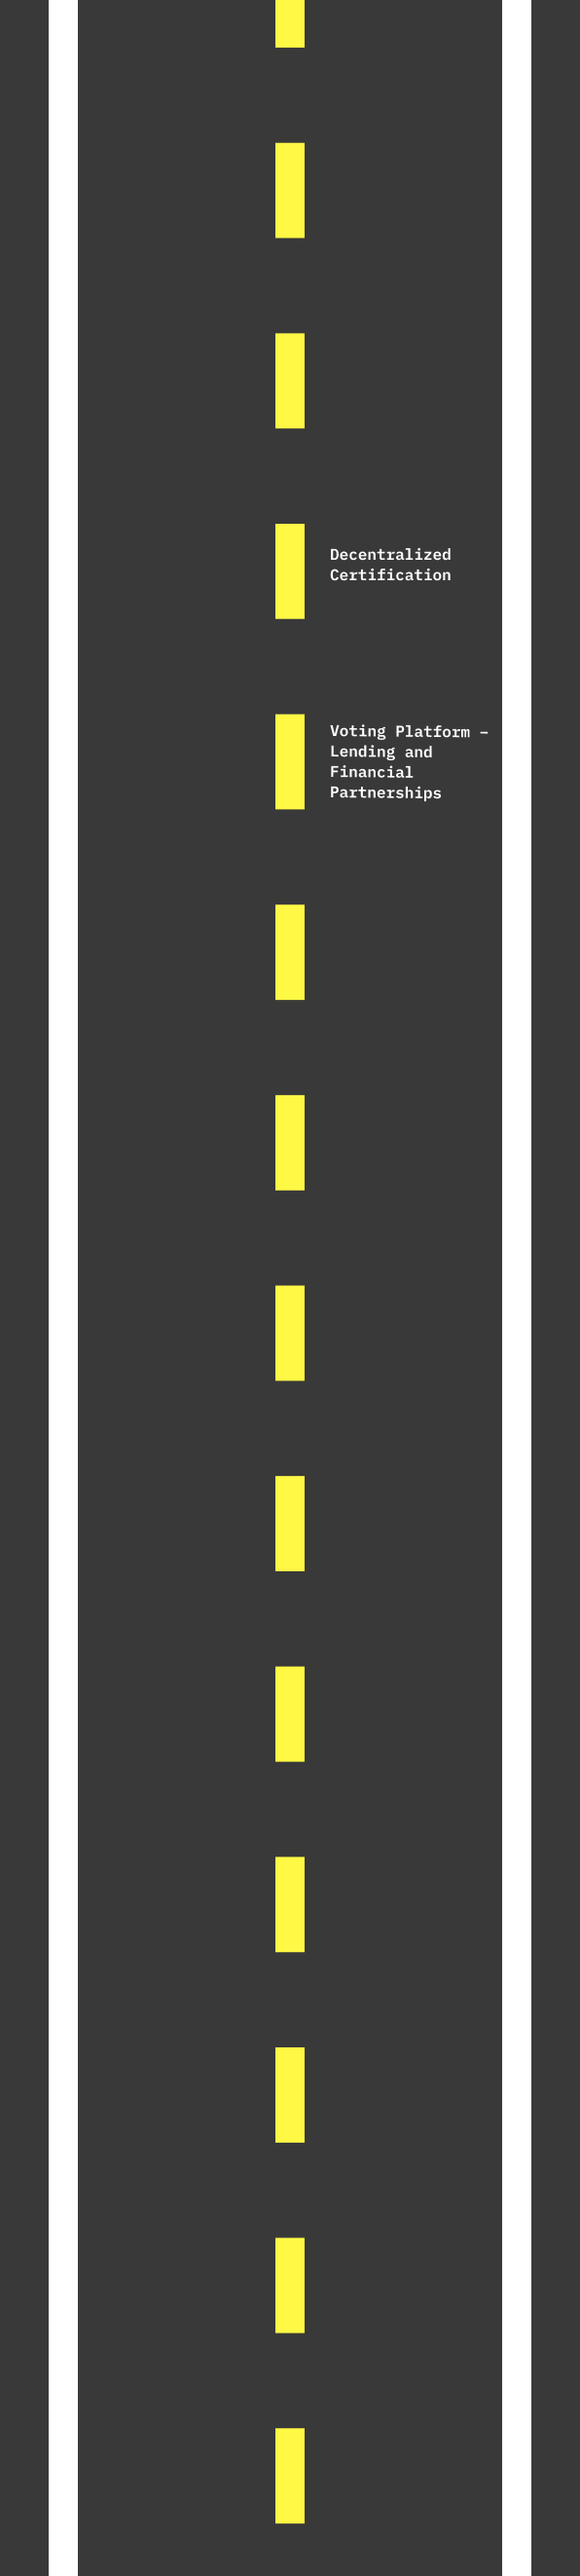
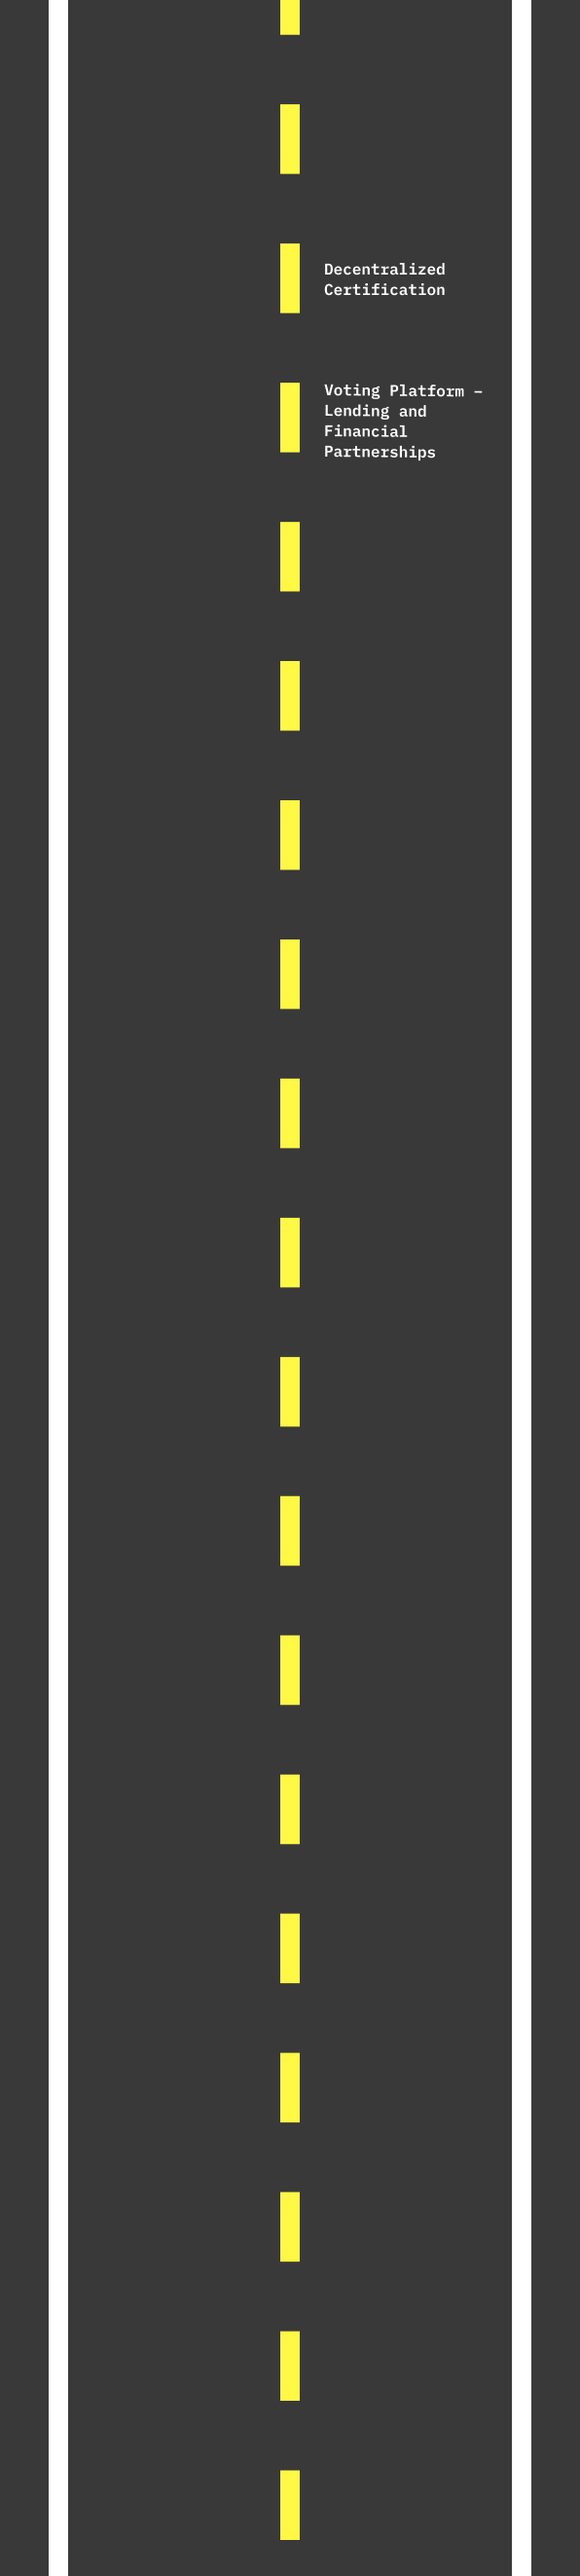
Adding car positions

diff --git a/src/app/roadmap/page.js b/src/app/roadmap/page.js
@@ -10,9 +10,9 @@ export default function useRoadmap() {
 
     const carPositions = {
         year1: {
-            desktop: 230,
-            tablet: 230,
-            mobile: 230,
+            desktop: 5,
+            tablet: 70,
+            mobile: 70,
         },
         year2: {
             desktop: 430,
@@ -39,7 +39,7 @@ export default function useRoadmap() {
     }, [isCarMoving, activeYear]);
 
     useEffect(() => {
-        setCurrentCarPosition(70);
+        setCurrentCarPosition(10    );
         setIsCarMoving(true);
     }, []);
 
@@ -117,8 +117,8 @@ export default function useRoadmap() {
                     <div className="roadmap-title fmb text-5xl sm:text-7xl text-center text-shadow sm:mt-12 mt-[50px] z-10">
                         ROADMAP
                     </div>
-                    <div className="sm:mt-[80px] mt-[125px]">
-                        <div className="flex justify-center md:gap-6 gap-4 py-4 mx-5 text-sm md:text-xs ">
+                    <div className="sm:mt-[80px] mt-[60px]">
+                        <div className="flex justify-center md:gap-6 gap-4 py-4 mx-5 text-[10px] md:text-xs ">
                             <button
                                 className={`bg-transparent hover:bg-[#E26E5D] border-3 border-white hover:border-[#E26E5D] fmb p-2 w-32 text-sm sm:w-auto sm:text-base ${
                                     activeYear === 1 ? "active" : ""
@@ -158,7 +158,7 @@ export default function useRoadmap() {
                     {activeYear === 1 && (
                         <>
                             <div
-                                className="absolute inset-0 min-[680px]:top-[620px] top-[510px] flex items-start justify-center h-[200px]"
+                                className="absolute inset-0 min-[680px]:top-[450px] top-[280px] flex items-start justify-center h-[200px]"
                                 style={{
                                     transform: `translateY(${currentCarPosition}px)`,
                                     transition: isCarMoving ? "transform 7s" : "none",
@@ -168,7 +168,7 @@ export default function useRoadmap() {
                                     <img src="/car.png" className="car mr-64" alt="Car" size={30} />
                                 </div>
                             </div>
-                            <div className="absolute inset-0 min-[680px]:top-[830px] top-[700px] h-[100px] md:mt-[300px] mt-[300px]  min-[680px]:mt-[900px] items-center justify-center mr-60 flex gap-24 min-[680px]:gap-36 overflow-hidden z-10">
+                            <div className="absolute inset-0 min-[680px]:top-[400px] top-[400px] h-[100px] md:mt-[300px] mt-[300px]  min-[680px]:mt-[900px] items-center justify-center mr-60 flex gap-24 min-[680px]:gap-36 overflow-hidden z-10">
                                 <img src="/traffic-barrier-1.png" alt="Traffic Barrier 1" />
                             </div>
                         </>
